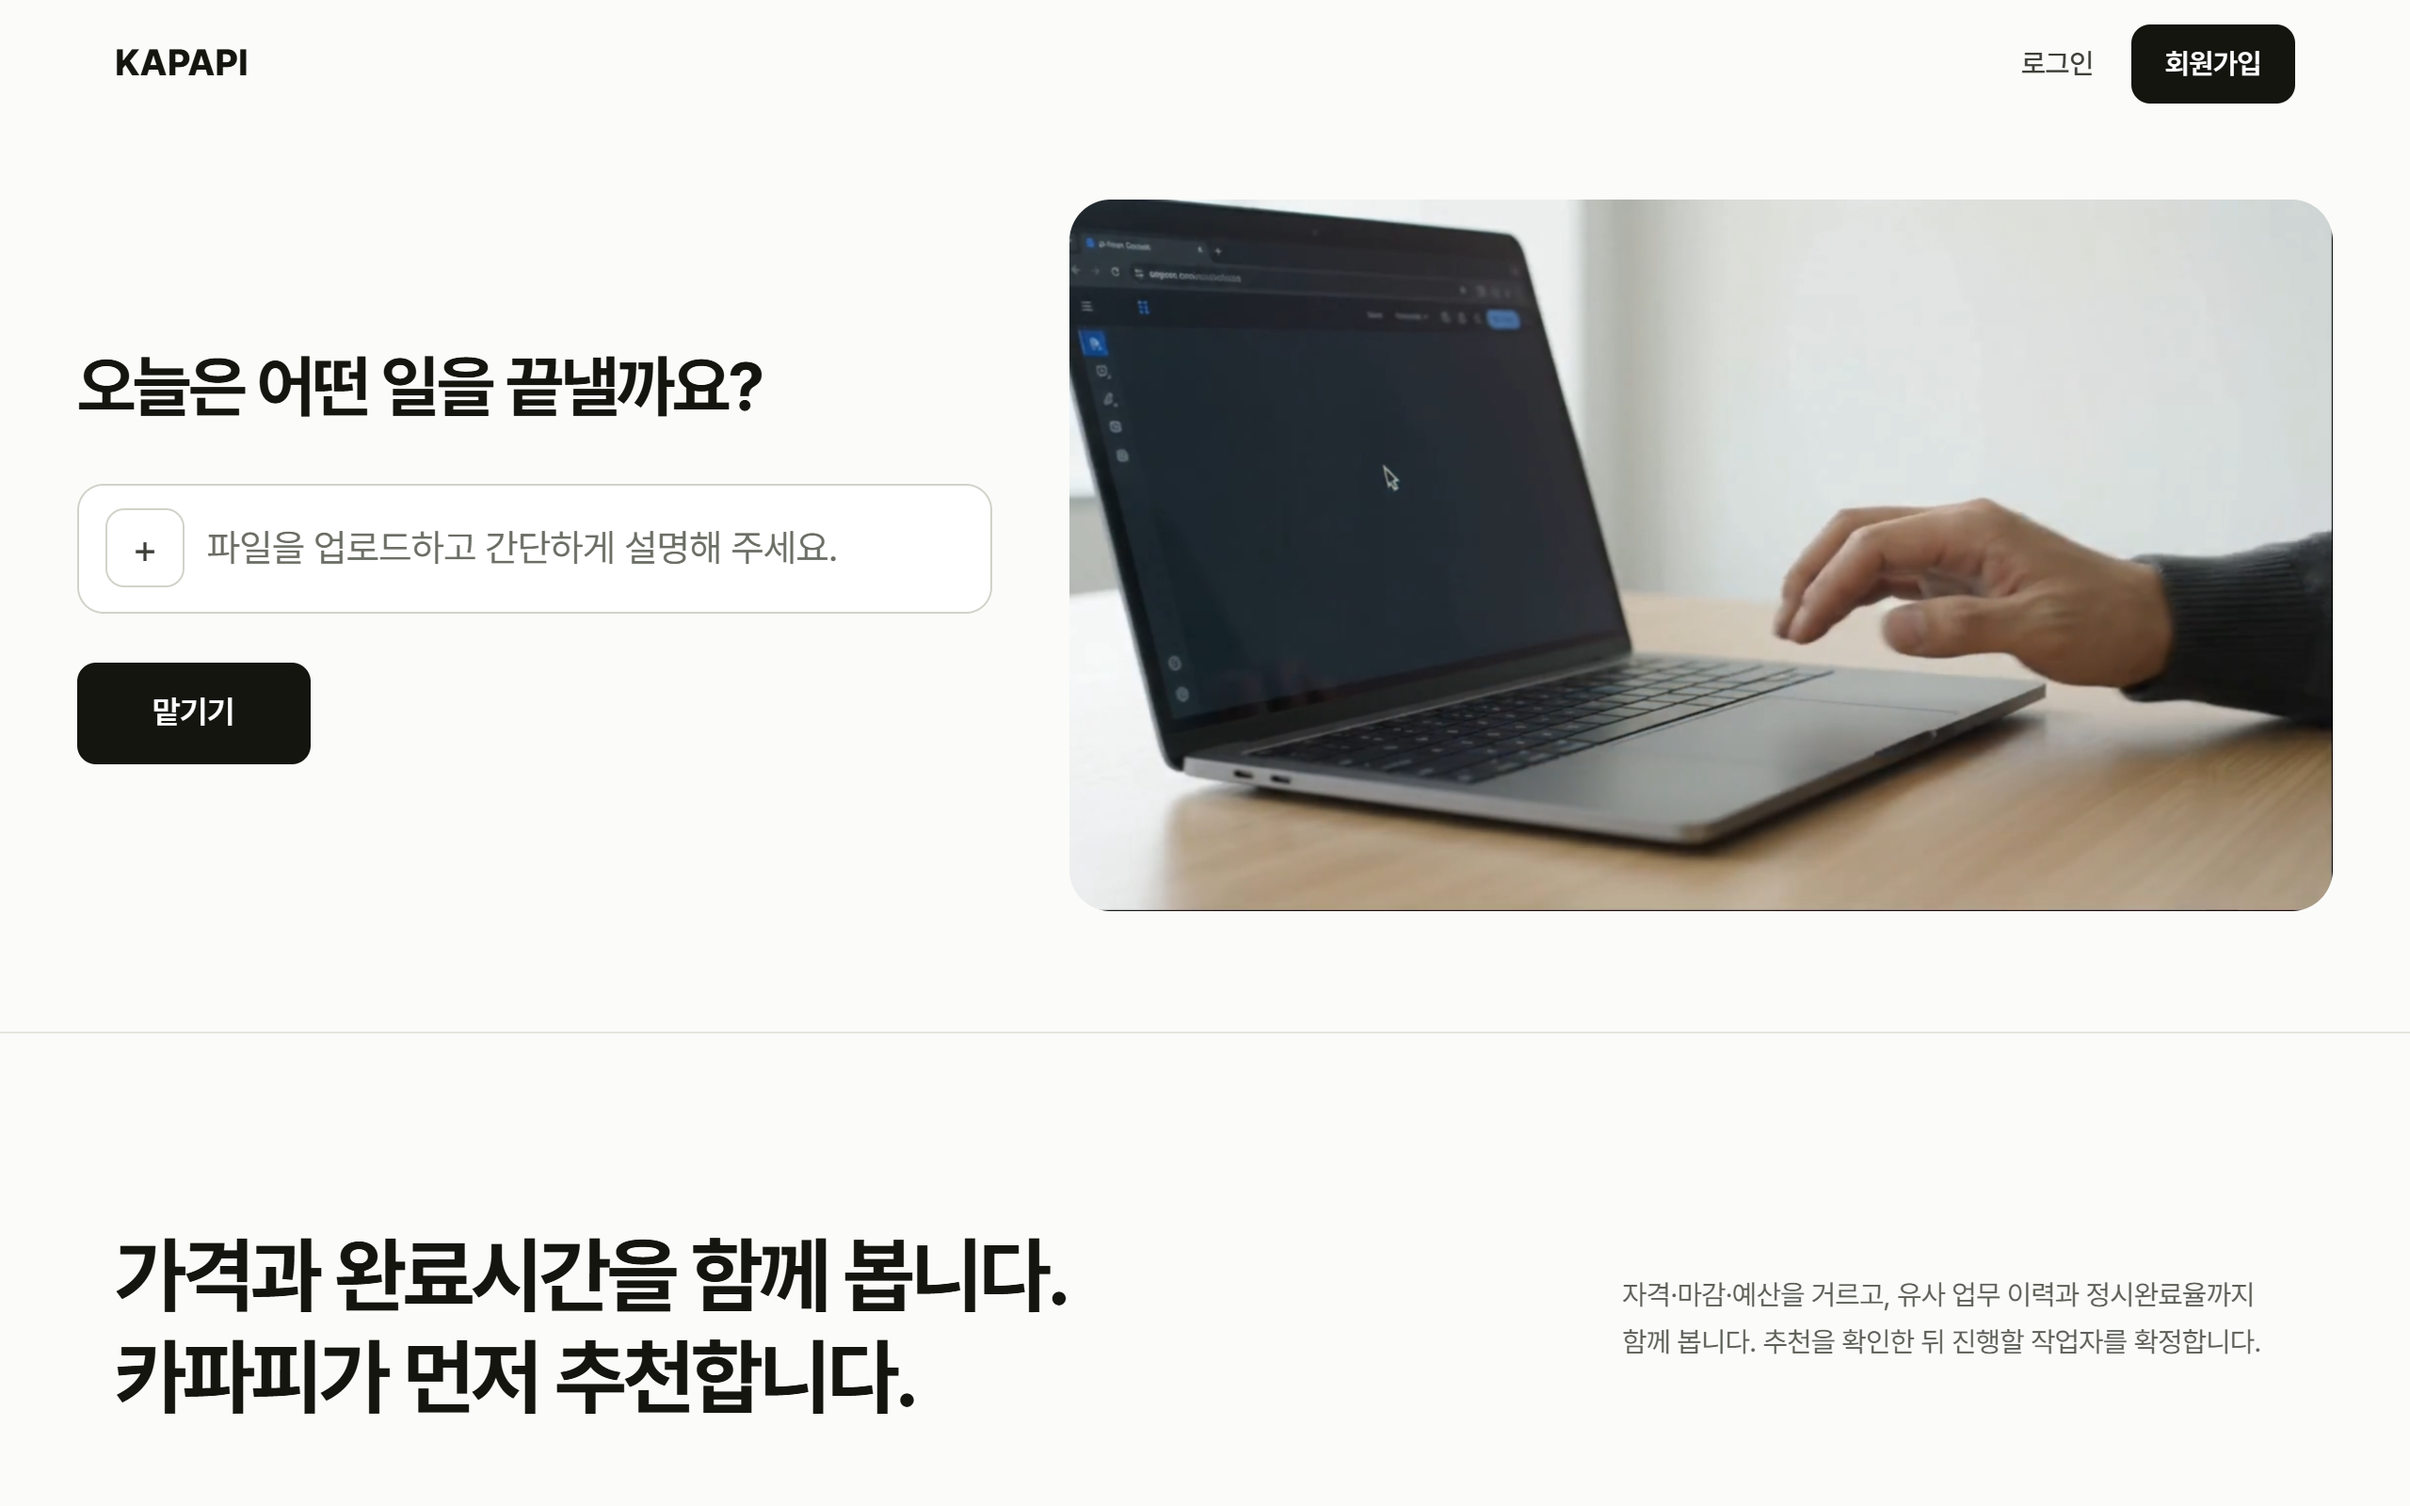
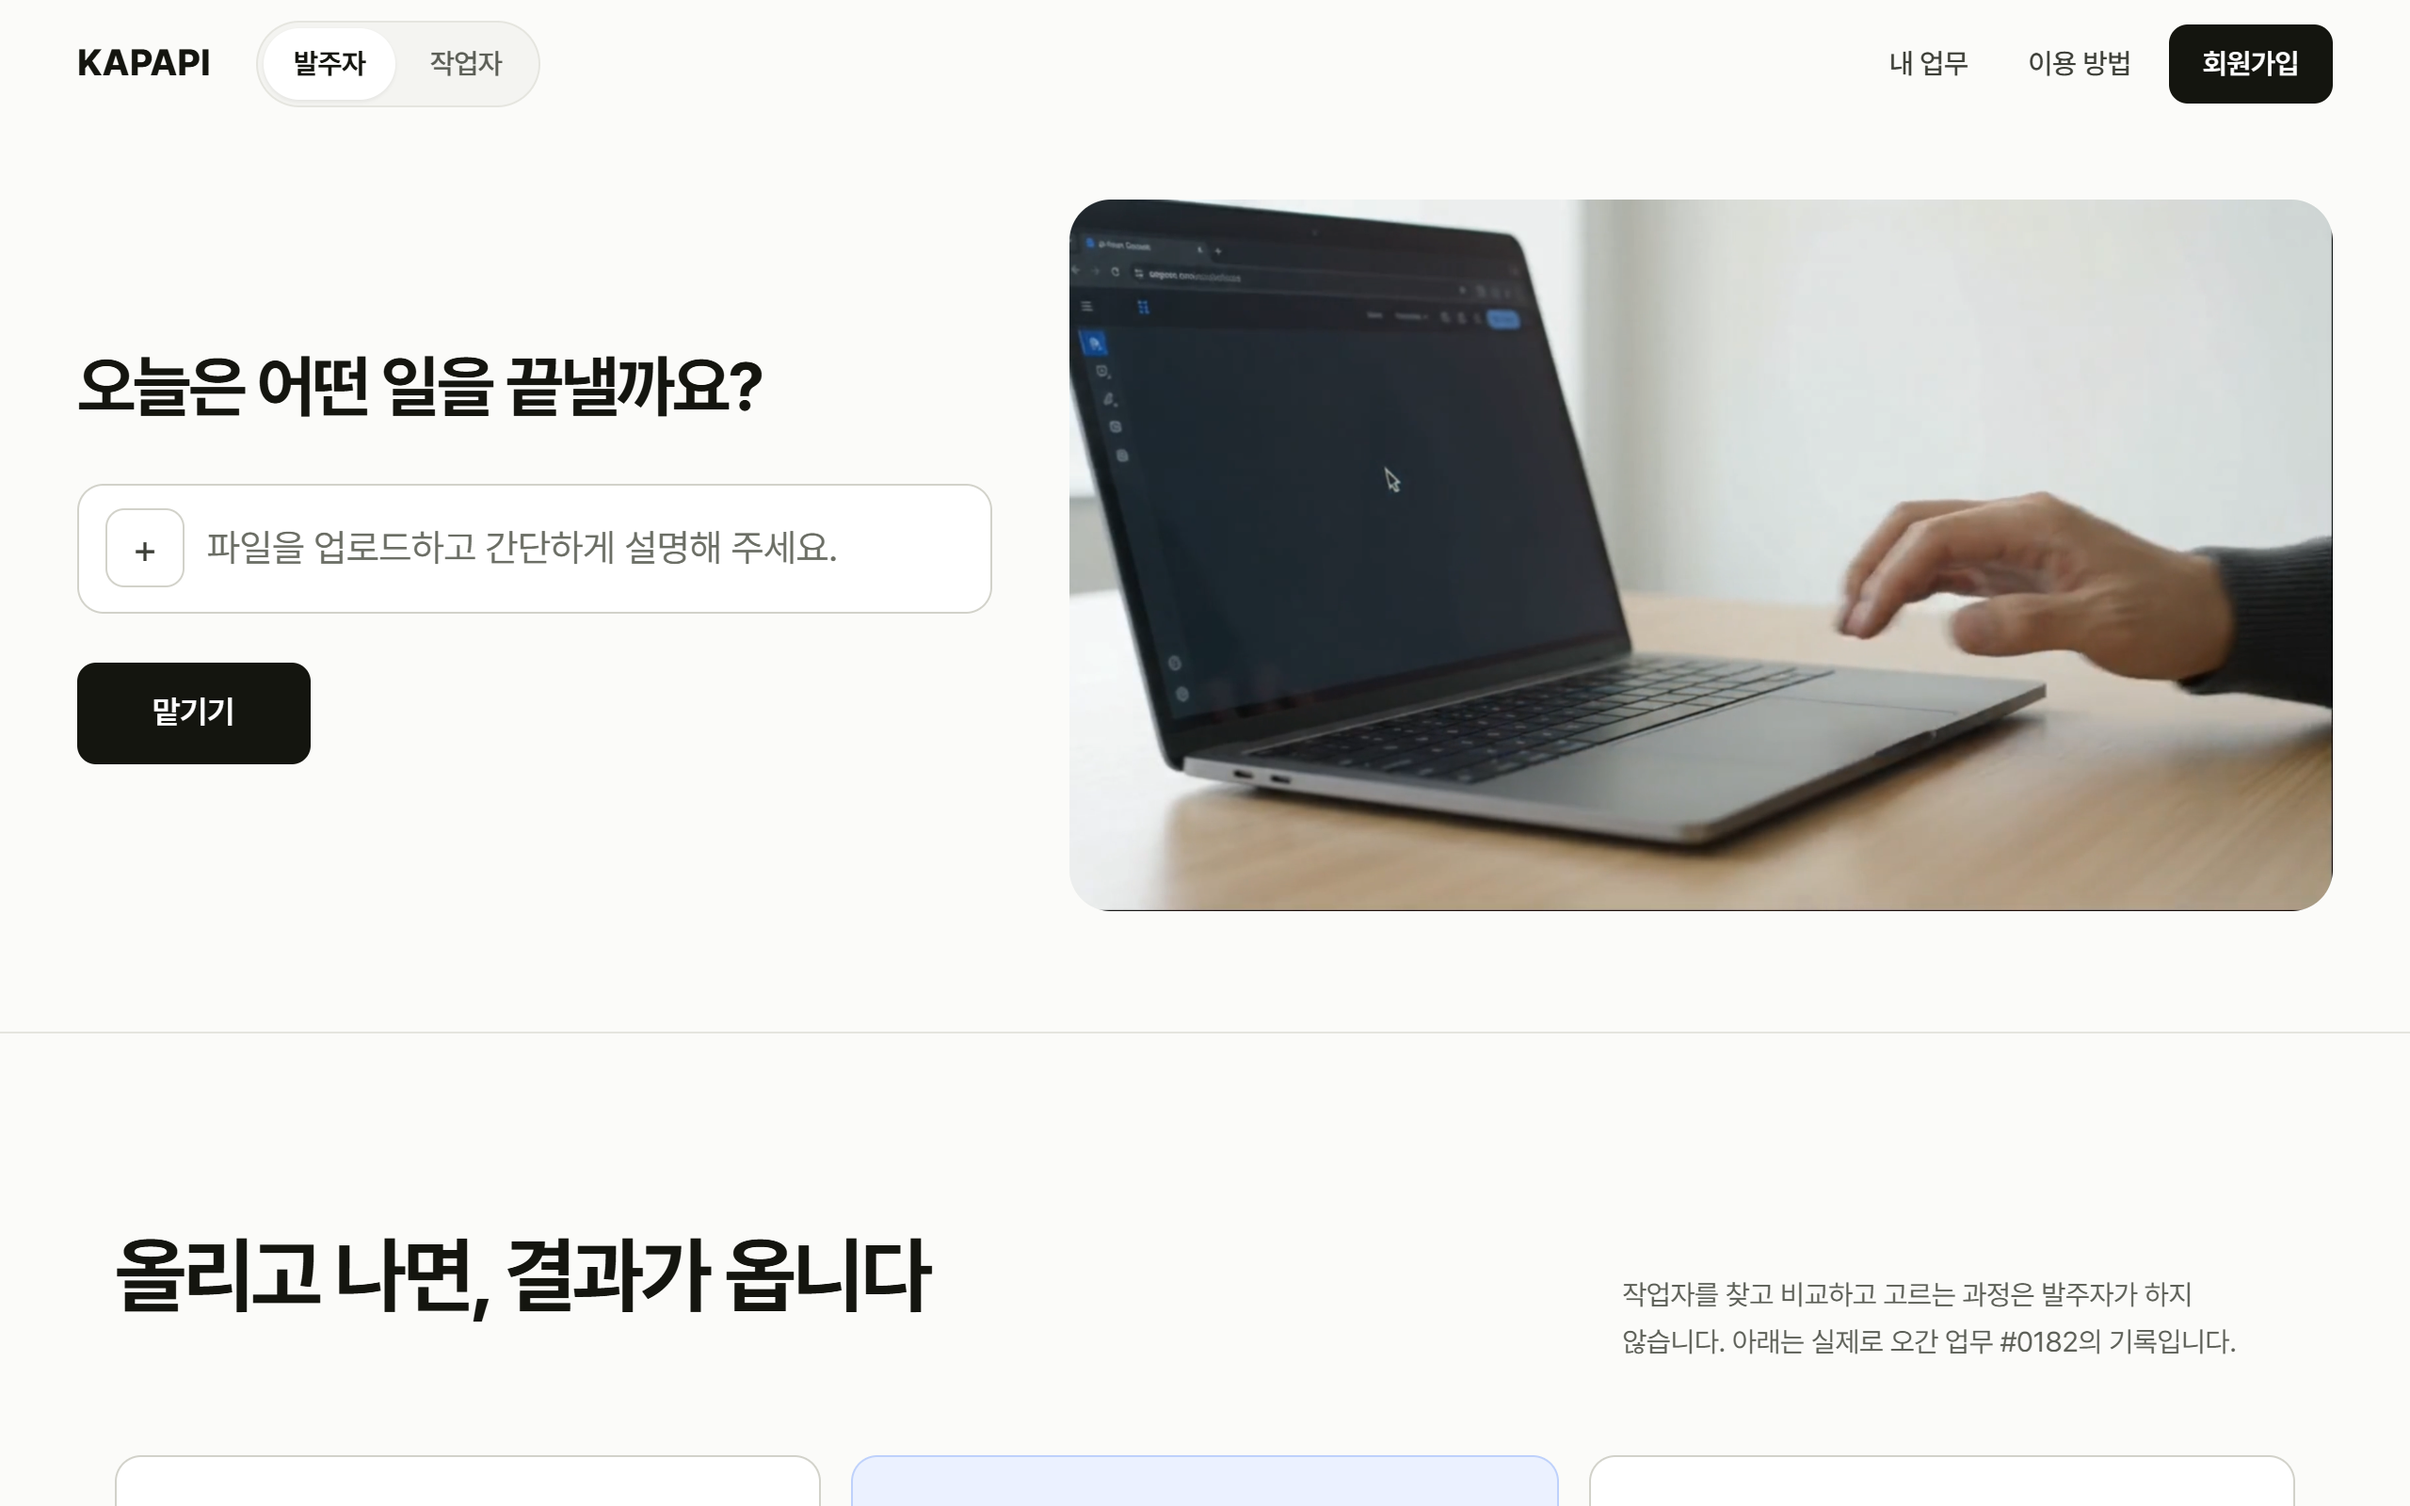
feat: 작업자 goes straight to the work list
Founder direction: the worker landing is removed, and switching to 작업자 shows
the open work immediately. WorkerHero was a page in front of the thing a worker
came for, so it is deleted rather than shortened.

That also removes the reason the mode store existed. Each surface is now a route
— / is 발주자, /board is 작업자 — so the toggle is two links and the active one is
read off the pathname. A stored preference could only ever disagree with the page
the person is actually looking at, so lib/mode.tsx and its provider go too, and
the landing is a server component again.

UrgentSection is left in place but unrendered. 긴급 업무 is named canon and
PROTOTYPE_SPEC lists it as landing content, so deleting it unasked would be a
product decision rather than a cleanup — it is waiting for a surface, not dead.

Verified by driving the toggle: 작업자 lands on /board 지금 열려 있는 작업 with the
right item marked current, 발주자 returns to the upload. 10/10 canon, no video
rule violation, no overflow on 6 routes at desktop and mobile.

diff --git a/src/components/nav.tsx b/src/components/nav.tsx
@@ -1,9 +1,8 @@
 "use client";
 
 import Link from "next/link";
-import { usePathname, useRouter } from "next/navigation";
+import { usePathname } from "next/navigation";
 
-import { useMode, type Mode } from "@/lib/mode";
 import s from "./nav.module.css";
 
 /**
@@ -12,55 +11,44 @@ import s from "./nav.module.css";
  * The toggle is a surface switch on one account, not a second signup door
  * (IDENTITY_ROLE_MODEL §1), so it sits beside the brand rather than being sold
  * as a destination — and 회원가입 stays one button for both sides.
+ *
+ * Each surface is a route, so the toggle is two links and the active one is read
+ * off the pathname. There is no stored mode: every route already says which
+ * surface it belongs to, and a second remembered answer could only disagree with
+ * the page the person is actually looking at.
  */
 
-const MODES: { k: Mode; label: string }[] = [
-  { k: "client", label: "발주자" },
-  { k: "worker", label: "작업자" },
-];
+const MODES = [
+  { href: "/", label: "발주자" },
+  { href: "/board", label: "작업자" },
+] as const;
 
-/**
- * Which mode a route belongs to, so the toggle never lies about where you are.
- * The landing is deliberately not listed: it renders both surfaces, so there the
- * toggle follows the stored preference rather than the URL.
- */
-function modeOf(pathname: string): Mode | null {
-  if (pathname.startsWith("/board")) return "worker";
-  if (pathname.startsWith("/new") || pathname.startsWith("/quest")) return "client";
-  return null;
-}
+/** 작업자 owns the board; everything else is the client's side of the account. */
+const isWorker = (pathname: string) => pathname.startsWith("/board");
 
 export function Nav() {
   const pathname = usePathname();
-  const router = useRouter();
-  const { mode, setMode } = useMode();
-  const current = modeOf(pathname) ?? mode;
-
-  // The landing serves both surfaces, so switching there is a re-render. From an
-  // inner route it returns to the landing, because the page you were on belongs
-  // to the surface you just left.
-  function go(m: Mode) {
-    setMode(m);
-    if (pathname !== "/") router.push("/");
-  }
+  const worker = isWorker(pathname);
 
   return (
     <header className={s.bar}>
       <nav className={s.inner} aria-label="주요 메뉴">
-        <Link href="/" className={s.brand}>KAPAPI</Link>
+        <Link href={worker ? "/board" : "/"} className={s.brand}>KAPAPI</Link>
 
         <div className={s.modes} role="group" aria-label="화면 전환">
-          {MODES.map((m) => (
-            <button
-              key={m.k}
-              type="button"
-              className={`${s.mode} ${current === m.k ? s.modeOn : ""}`}
-              aria-pressed={current === m.k}
-              onClick={() => go(m.k)}
-            >
-              {m.label}
-            </button>
-          ))}
+          {MODES.map((m) => {
+            const on = m.href === "/board" ? worker : !worker;
+            return (
+              <Link
+                key={m.href}
+                href={m.href}
+                className={`${s.mode} ${on ? s.modeOn : ""}`}
+                aria-current={on ? "page" : undefined}
+              >
+                {m.label}
+              </Link>
+            );
+          })}
         </div>
 
         <div className={s.right}>

diff --git a/src/app/page.tsx b/src/app/page.tsx
@@ -1,30 +1,13 @@
-"use client";
-
 import { Hero } from "@/components/hero";
-import { WorkerHero } from "@/components/worker-hero";
-import { AccountSection, ResultFlowSection, UrgentSection } from "@/components/sections";
-import { useMode } from "@/lib/mode";
+import { AccountSection, ResultFlowSection } from "@/components/sections";
 
 /**
- * One landing, two surfaces of the same account.
+ * The 발주자 surface. D-035: 업무 입력 → KAPAPI → 결과, so it carries the upload and
+ * one piece of evidence that the result actually comes back.
  *
- * D-035: the 발주자 side is 업무 입력 → KAPAPI → 결과, so it carries the upload and
- * one piece of evidence that the result actually comes back. The 작업자 side is the
- * market, because proposing 가격 + 완료시간 is what that person is here to do.
+ * The 작업자 surface is /board — the work list itself, not a page in front of it.
  */
 export default function Home() {
-  const { mode } = useMode();
-
-  if (mode === "worker") {
-    return (
-      <>
-        <WorkerHero />
-        <UrgentSection />
-        <AccountSection />
-      </>
-    );
-  }
-
   return (
     <>
       <Hero />
